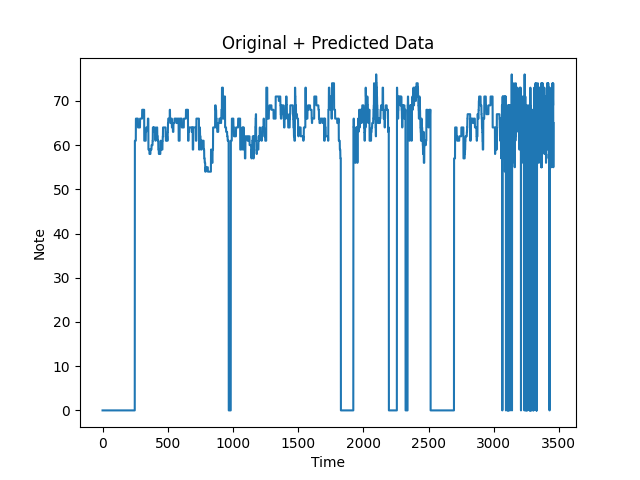
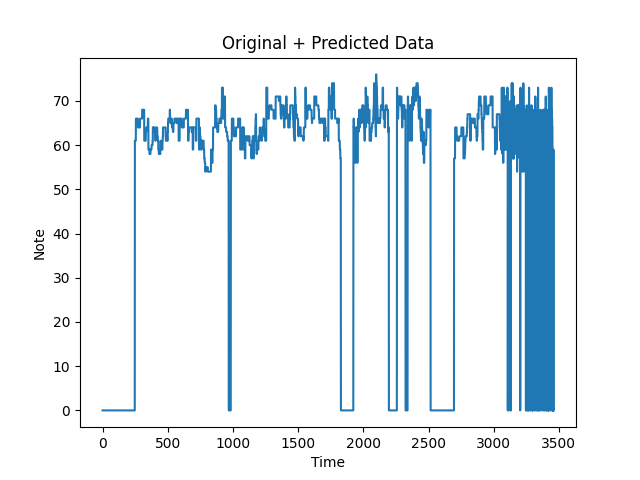
stuff for data visualization for 1 voice

Changed region(s): [[0.7812, 0.3125, 0.875, 0.875], [0.7812, 0.1562, 0.875, 0.25]]

diff --git a/Data Analysis/Data_visualization.py b/Data Analysis/Data_visualization.py
@@ -17,6 +17,24 @@ def plot_scatter(data, title="Scatter Plot of Notes"):
     plt.grid()
     plt.show()
 
+def plot_line_voice_0(data, title="Notes over Time"):
+    """
+    Plots a line graph of the notes for voice 0 over time.
+
+    Parameters:
+    - data: pandas DataFrame containing MIDI note values for all voices.
+    - title: Title of the plot.
+    """
+    time_steps = np.arange(data.shape[0])  
+    plt.figure(figsize=(10, 6))
+    plt.plot(time_steps, data.iloc[:, 0], label="Soprano voice", color="blue", linewidth=2, alpha=0.7)
+    plt.title(title)
+    plt.xlabel("Time Step")
+    plt.ylabel("Note Value")
+    plt.legend()
+    plt.grid()
+    plt.show()
+
 def plot_histograms(data, title="Histogram of Notes"):
     """Plots histograms for the note values of the four voices."""
     plt.figure(figsize=(10, 8))
@@ -30,19 +48,7 @@ def plot_histograms(data, title="Histogram of Notes"):
     plt.tight_layout()
     plt.show()
 
-def plot_3d(data, title="3D Visualization of Notes"):
-    """Plots a 3D visualization of the notes for the four voices over time."""
-    time_steps = np.arange(data.shape[0])
-    fig = plt.figure(figsize=(12, 8))
-    ax = fig.add_subplot(111, projection='3d')
-    for voice in range(data.shape[1]):
-        ax.plot(time_steps, [voice + 1] * len(time_steps), data.iloc[:, voice], label=f"Voice {voice + 1}")
-    ax.set_title(title)
-    ax.set_xlabel("Time Step")
-    ax.set_ylabel("Voice")
-    ax.set_zlabel("Note Value")
-    ax.legend()
-    plt.show()
+
 
 def plot_zero_distribution_per_voice(data, title="Distribution of Silence (0) vs Non-Zero Values"):
     """Plots the distribution of 0 values (silence) to non-zero values for all voices."""
@@ -63,39 +69,6 @@ def plot_zero_distribution_per_voice(data, title="Distribution of Silence (0) vs
     plt.show()
 
 
-
-
-def plot_correlation_of_voice(data, voice_column=3, title="Correlation Matrix of Notes (Voice 1)"):
-    """Plots a correlation matrix for the actual notes in a specific voice."""
-    # Extract the notes for the specified voice
-    voice_notes = data.iloc[:, voice_column]  # Select the specified column (0-based indexing)
-    unique_notes = sorted(voice_notes.unique())  # Unique note values in the selected voice
-
-    print(f"Unique notes in Voice {voice_column + 1}: {unique_notes}")
-
-    # Create a binary matrix: rows are time steps, columns are unique notes
-    note_matrix = pd.DataFrame(0, index=np.arange(len(voice_notes)), columns=unique_notes)
-    for i, note in enumerate(voice_notes):
-        note_matrix.loc[i, note] = 1
-
-    # Compute the correlation matrix for the binary note presence
-    correlation_matrix = note_matrix.corr()
-
-    # Plot the heatmap of the correlation matrix with annotations
-    plt.figure(figsize=(15, 10))
-    sns.heatmap(
-        correlation_matrix, 
-        annot=True,  # Annotate each square with its correlation value
-        fmt=".2f",   # Format the annotations to 2 decimal places
-        cmap="coolwarm", 
-        cbar=True,
-        linewidths=0.5  # Add lines between squares for clarity
-    )
-    plt.title(title, fontsize=14)
-    plt.xlabel("Notes", fontsize=12)
-    plt.ylabel("Notes", fontsize=12)
-    plt.tight_layout()
-    plt.show()
 
 
 def plot_next_note_correlation(data, voice_column=0, title="Next Note Correlation Matrix (Voice 1)"):
@@ -143,12 +116,15 @@ def main():
     path = "F.txt"  # File path to the text file
     data = pd.read_csv(path, sep="\t", header=None)  # Load tab-separated values
 
-    plot_scatter(data, title="Scatter Plot of Notes")
-    plot_histograms(data, title="Histogram of Notes")
-    plot_3d(data, title="3D Visualization of Notes")
-    plot_zero_distribution_per_voice(data, title="Distribution of Silence (0) vs Non-Zero Values")
-    plot_correlation_of_voice(data, title="Correlation Matrix of Notes")
+    # plot_scatter(data, title="Scatter Plot of Notes")
+    # plot_histograms(data, title="Histogram of Notes")
+    # plot_zero_distribution_per_voice(data, title="Distribution of Silence (0) vs Non-Zero Values")
     plot_next_note_correlation(data, title="Next Note Correlation Matrix")
+    # plot_line_voice_0(data)
+
+    
+    timesteps = data.shape[0]
+    print(f"The data spans {timesteps} timesteps.")
 
 if __name__ == "__main__":
     main()

diff --git a/main.py b/main.py
@@ -45,11 +45,13 @@ def main():
 
     """ Run model to Predict Bach"""
     max_pred, all_preds = predictor.predict_bach(flat_X_train_tensor[-1], model, output_to_input_convert, non_zero_min_note, max_note)
-    print(max_pred, all_preds)
+    print(max_pred)
 
     """ Postprocess data """
 
     new_data, new_predictions = utils.add_preds_to_data(ds_voice_1.get_train(), max_pred)
+
+    print("new data" , new_data)
 
     plot.plot_certainty(all_preds, title = "Certainty of Predictions", xlabel = "Time", ylabel = "Note") # Plot certainty of each note over timesteps
     plot.plot_data(new_data, title = "Original + Predicted Data", xlabel = "Time", ylabel = "Note") # plot the original + predicted notes

diff --git a/Audio/audio_midi.py b/Audio/audio_midi.py
@@ -86,7 +86,8 @@ def write_midi(cellos, name):
 
 def midi_to_wav(name):
     # Convert the MIDI file to a WAV file using FluidSynth
-    fs = FluidSynth("Soundfonts/Roland_SC-88.sf2")
+    # fs = FluidSynth("Soundfonts/Roland_SC-88.sf2")
+    fs = FluidSynth(r"C:\Users\polyx\AppData\Local\Programs\Python\Python310\Lib\site-packages\fluidsynth\fluidsynth.exe")
     fs.midi_to_audio("Data Audio Outputs/"+name+".mid", "Data Audio Outputs/"+name+".wav")
 
 def data_to_audio(data, audio_name, instrument = 42, durationPerSymbol=1 / 16):

diff --git a/Model_LR/predictor.py b/Model_LR/predictor.py
@@ -5,7 +5,7 @@ import torch
 import numpy as np
 
 # k is how many top predictions we randomly sample from. This can be tuned
-def predict_bach(last_timestep, model, output_to_input_converter, note_min, note_max, timesteps = 400, k = 5): 
+def predict_bach(last_timestep, model, output_to_input_converter, note_min, note_max, timesteps = 400, k = 3): 
     max_prediction = []
     all_predictions = []
     with torch.no_grad():

diff --git a/Data Analysis/tempCodeRunnerFile.py b/Data Analysis/tempCodeRunnerFile.py
@@ -1,4 +1,1 @@
-    plot_scatter(data, title="Scatter Plot of Notes")
-    plot_histograms(data, title="Histogram of Notes")
-    plot_3d(data, title="3D Visualization of Notes")
-    plot_zero_distribution_per_voice(data, title="Distribution of Silence (0) vs Non-Zero Values")
+    plot_next_note_correlation(data, title="Next Note Correlation Matrix")

diff --git a/Model_LR/trainer.py b/Model_LR/trainer.py
@@ -1,4 +1,4 @@
-def train_model(X_train_tensor, y_train_tensor, model, optimizer, criterion, num_epochs=50000):
+def train_model(X_train_tensor, y_train_tensor, model, optimizer, criterion, num_epochs=25000):
   for epoch in range(num_epochs):
       # Forward pass
       outputs = model(X_train_tensor)
